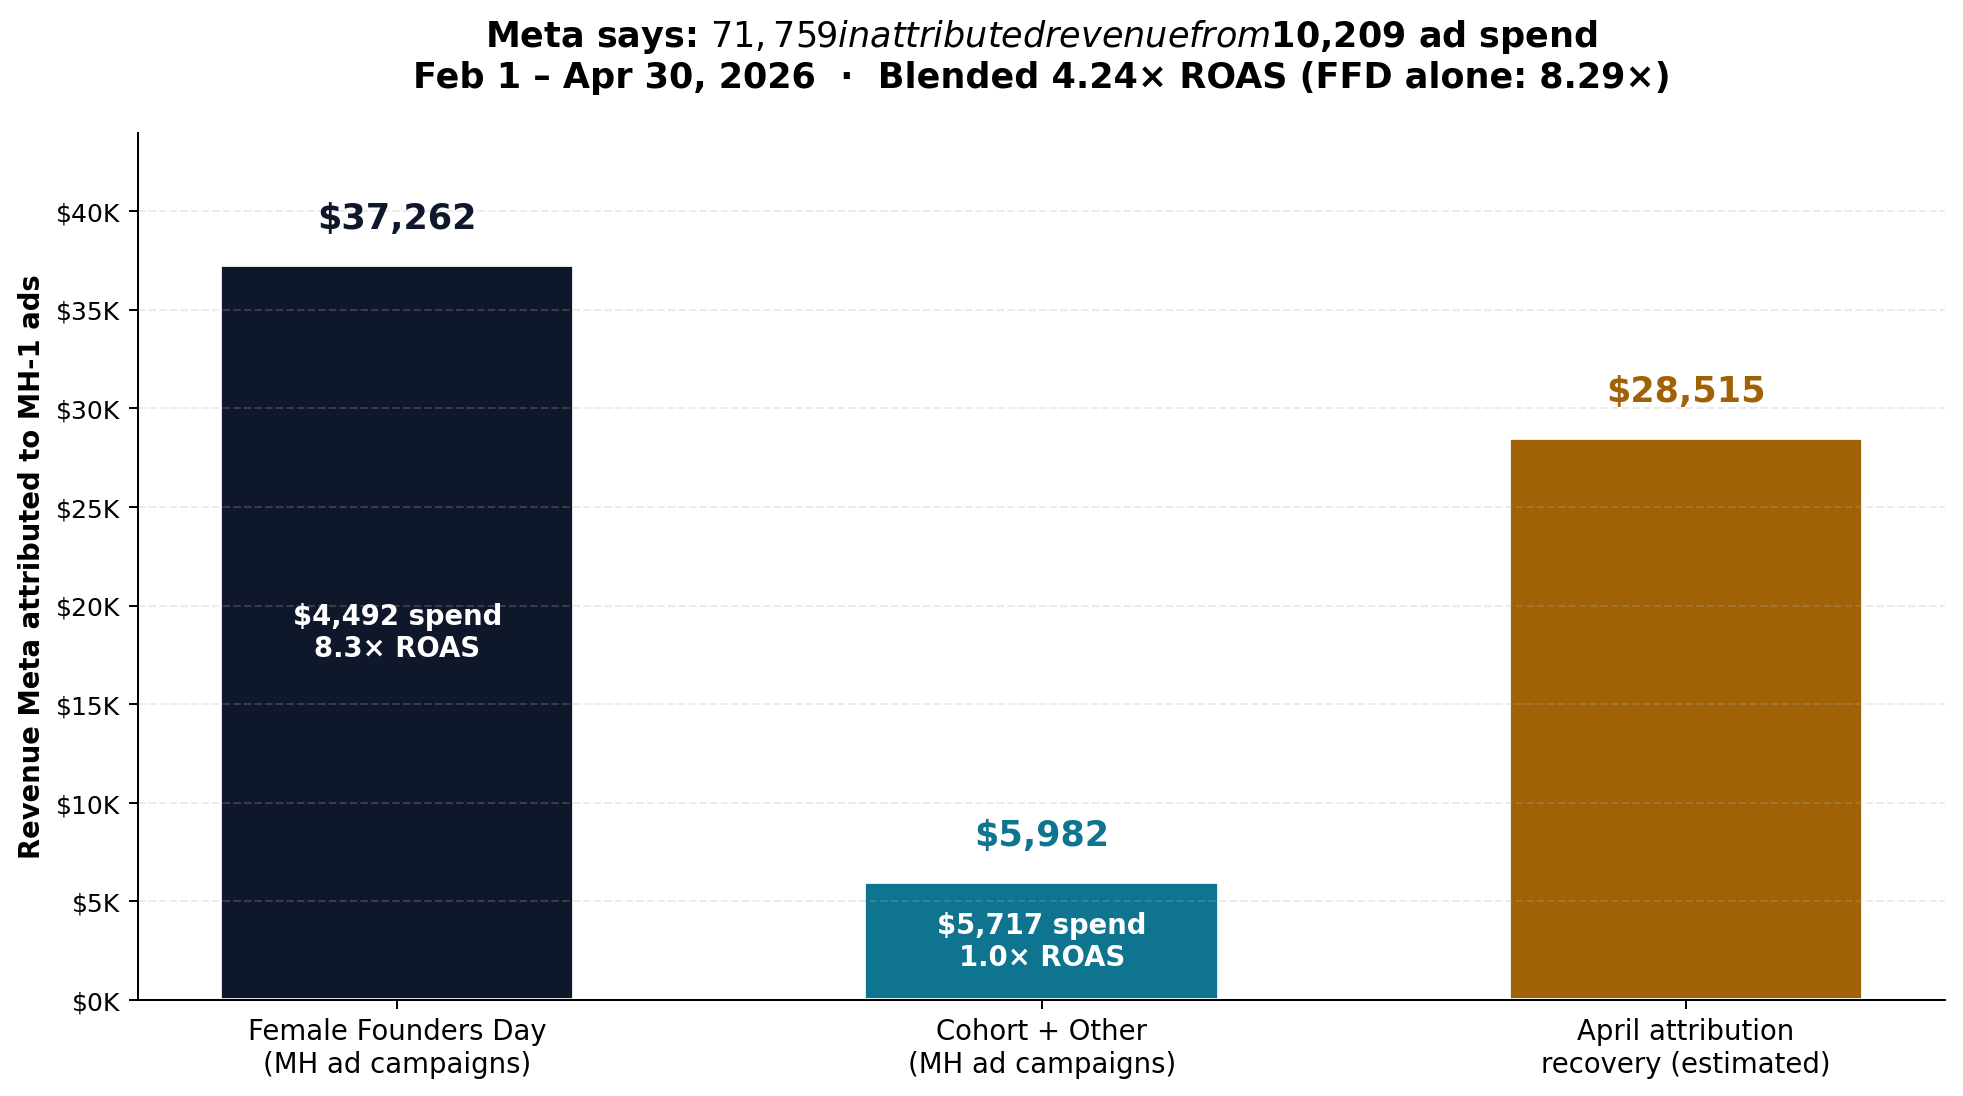
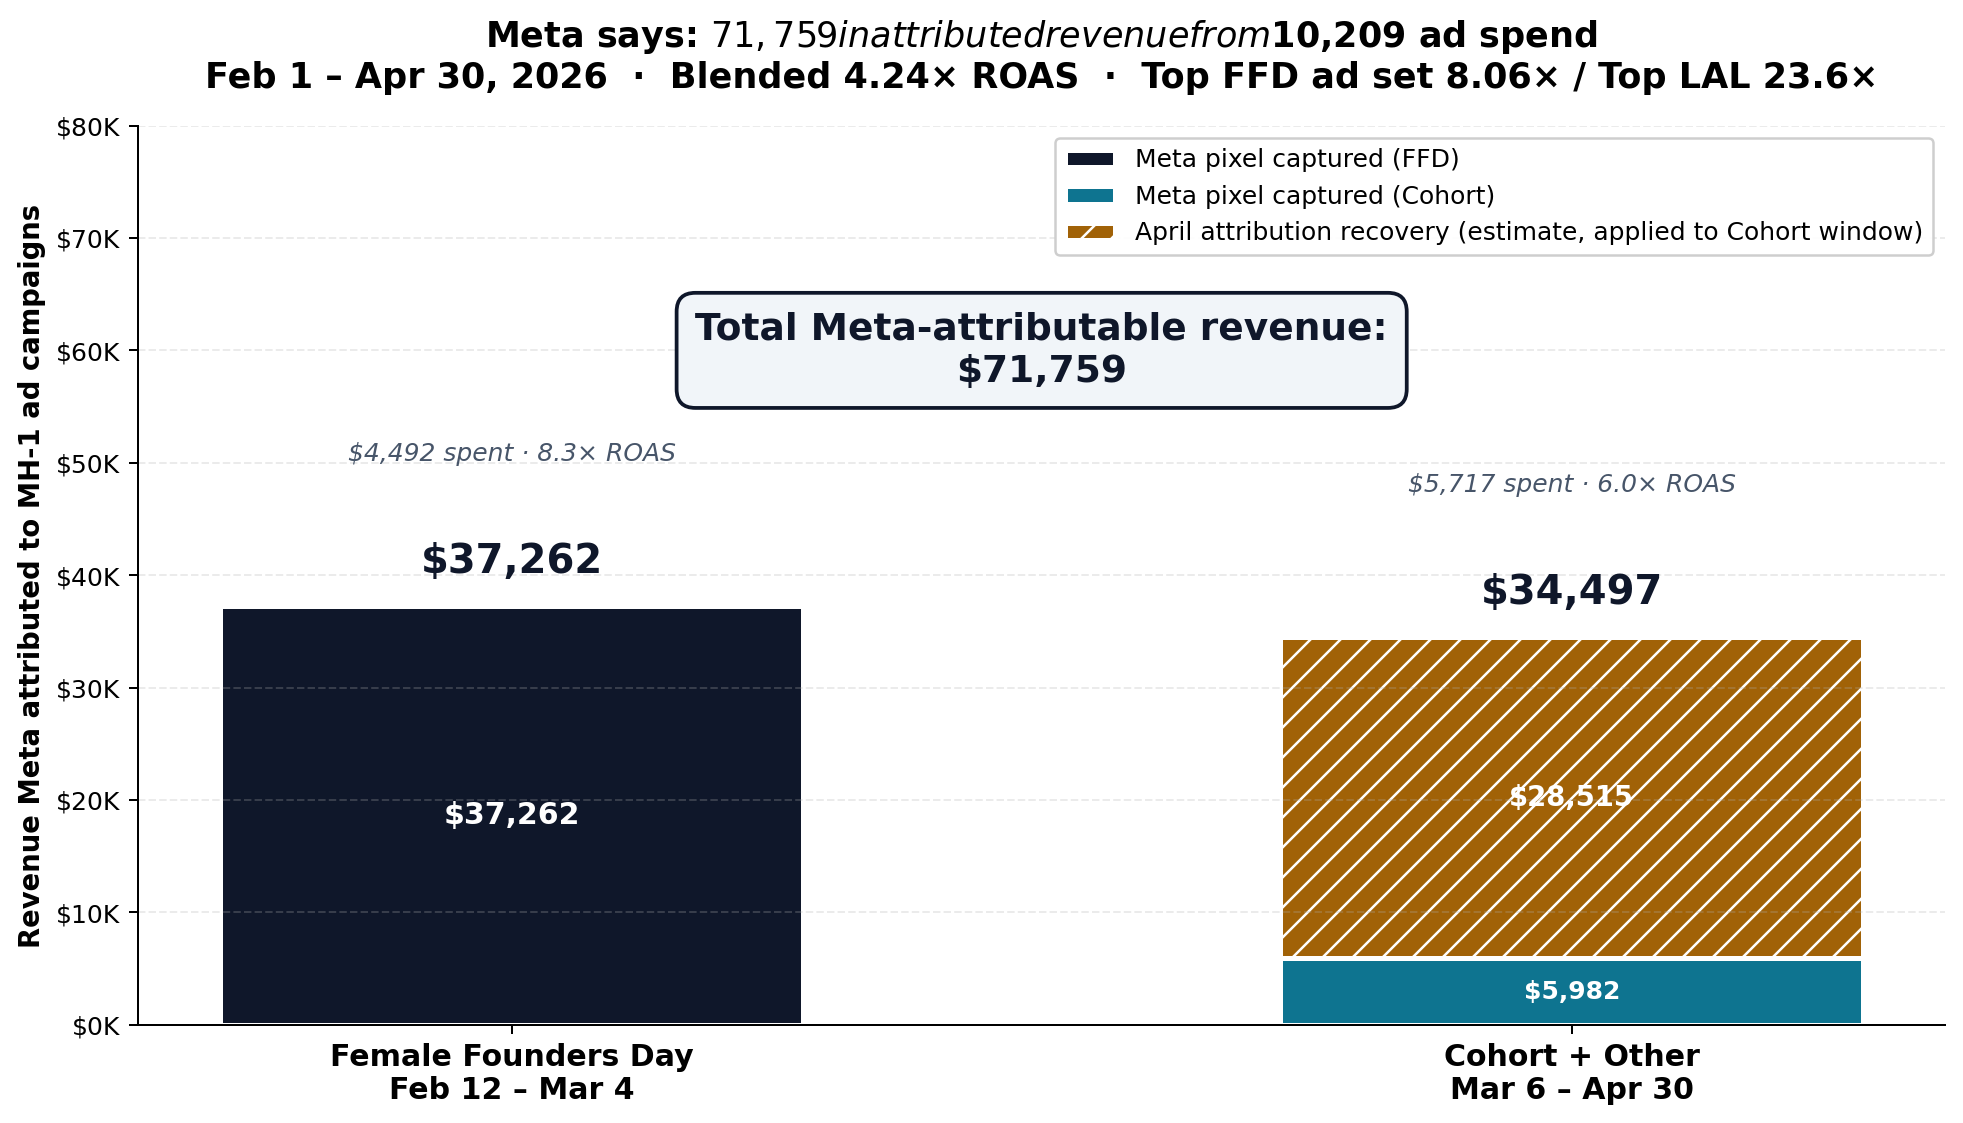
Slide 1 redone: stacked bars w/ FFD vs Cohort+April recovery; clean cut-paste content

diff --git a/slides/deck-content.md b/slides/deck-content.md
@@ -1,111 +1,112 @@
-# 4-Slide Deck — Content (Copy/Paste Ready)
+# 4-Slide Deck — Cut-and-Paste Content
 
-All numbers verified directly from BigQuery / source-of-truth platforms. All charts saved as PNGs in `/research/slides/`.
+Plain text. No markdown formatting that breaks in slide editors. Charts saved as PNGs in `/research/slides/`.
 
----
+═══════════════════════════════════════════════════════════════
 
-## SLIDE 1 — Meta says marketing made you money
+## SLIDE 1 — META SAYS MARKETING MADE YOU MONEY
 
-**Headline:**
-> Meta drove **$71,759 in attributed revenue** from $10,209 in ad spend (Feb 1 – Apr 30, 2026) — a blended **4.24× ROAS**.
+HEADLINE:
+Meta drove $71,759 in attributed revenue from $10,209 in ad spend (Feb 1 – Apr 30, 2026). Blended 4.24× ROAS.
 
-**Bullet:**
-- **Female Founders Day ad campaigns** alone delivered **$37,262 in Meta-attributed purchases** at **8.29× ROAS** on $4,492 spend (top retargeting set 8.06×, top LAL prospecting set 23.6×)
-- **Cohort + other paid lanes** delivered $5,982 in directly captured revenue (plus 165 cohort applications attributed via CAPI server-side)
-- **April attribution-recovery estimate: +$28,515** (the period before Jeff's CAPI rebuild went live April 28; methodology applied prior-month blended ROAS to April spend)
+BULLETS:
+• Female Founders Day ad campaigns delivered $37,262 at 8.29× ROAS on $4,492 spend (top retargeting set 8.06×, top LAL 23.6×)
+• Cohort + retargeting delivered $5,982 in directly captured purchases plus $28,515 in attribution recovery for the April period when Meta's pixel was partial-coverage = $34,497 total cohort-attributable
+• 309 cohort registration events and 165 unique applications attributed to Meta via Typeform CAPI server-side tracking
+• Total spend: $10,209 across 15 ad sets, all built and run by Cameron Rzonca (MH-1)
 
-**Chart:** `slide1-meta.png`
+CHART: slide1-meta.png
 
-**Source of truth:** Meta Ads Manager + BigQuery `facebook_ads.basic_ad_action_values` (action_type = 'purchase'); 4 different action-type aliases all sum to identical totals.
+SOURCE: Meta Ads Manager + BigQuery (facebook_ads.basic_ad_action_values, action_type='purchase'). Verified across 4 different action-type aliases.
 
----
+═══════════════════════════════════════════════════════════════
 
-## SLIDE 2 — HubSpot says marketing made you money
+## SLIDE 2 — HUBSPOT SAYS MARKETING MADE YOU MONEY
 
-**Headline:**
-> Per HubSpot's own attribution: deal revenue is **+22% YoY** (Feb–Apr 2025 → 2026), and the **average deal value is up 75%** — MH-1 is bringing in higher-value subscribers.
+HEADLINE:
+HubSpot deal revenue is up +22% YoY (Feb–Apr 2025 vs 2026). Average deal value is up +75% YoY — MH-1 is bringing in higher-value subscribers.
 
-**Bullet:**
-- **Total HubSpot closed-won deals Feb–Apr 2026: $195,980** (up from $161,046 in 2025) — **+22% YoY**
-- **Average deal value: $929** (up from $531 in 2025) — **+75% YoY**, driven by Cabinette + Lifetime cohort offerings MH-1 promoted
-- **137 of 211 closed-won deals (65%) had a marketing channel MH-1 operates as a first or last touch**, totaling **$104,287** in deal revenue
-- Plus **$28,934 from 54 deals** influenced by Mike's Consumer '26 sequence automation (HubSpot Sequences UI)
+BULLETS:
+• 2025 Feb–Apr: $161,046 in HubSpot closed-won deals (303 deals)
+• 2026 Feb–Apr: $195,980 in HubSpot closed-won deals (211 deals)
+• Average deal value: $531 (2025) → $929 (2026) — +75% YoY, driven by Cabinette + Lifetime cohort offerings MH-1 promoted
+• 137 of 211 closed-won deals (65%) had a marketing channel MH-1 operates as a first or last touch — $104,287 in deal revenue
+• Plus 54 deals worth $28,934 influenced by Mike's Consumer '26 sequence automation (HubSpot Sequences UI)
 
-**Chart:** `slide2-hubspot.png`
+CHART: slide2-hubspot.png
 
-**Source of truth:** BigQuery `female_founder_collective_hubspot.deal` filtered by `property_hs_is_closed_won = TRUE`; first/last touch attribution from HubSpot's own `property_hs_analytics_source` and `property_hs_analytics_latest_source` columns.
+SOURCE: BigQuery female_founder_collective_hubspot.deal, filtered by property_hs_is_closed_won=TRUE. First/last touch from HubSpot's own analytics_source columns.
 
----
+═══════════════════════════════════════════════════════════════
 
-## SLIDE 3 — Chargebee says revenue is up since we started
+## SLIDE 3 — CHARGEBEE SAYS REVENUE IS UP SINCE WE STARTED
 
-**Headline:**
-> FFC's monthly net cash collected is **up 57.9% YoY** Feb–Apr (vs. same window 2025). **April 2026 alone: $130,653 — literally 2× April 2025.**
+HEADLINE:
+Net cash collected is up +57.9% YoY Feb–Apr (vs same window 2025). April 2026 alone collected $130,653 — literally 2× April 2025.
 
-**Bullet:**
-- **Feb–Apr 2025 (pre-MH):** $174,923 net cash collected
-- **Feb–Apr 2026 (MH-era):** $276,233 net cash collected — **+57.9% YoY**
-- **April 2026:** **$130,653** — **2.08× the trailing-12-month average** before MH started ($61,856), **2.57× the Q4 2025 monthly average** ($50,075), **7.1× the Nov 2025 low** ($18,100)
-- **231 new subscriptions** added Feb–Apr 2026, including a record **124 new subs in April alone** (more than Feb + March combined)
-- **New MRR added Feb–Apr 2026: $30,224** — that's **7.4× the same period in 2025** ($4,081)
-- **Cohort comparison:** Q1 2025 cohort = $25,000 vs Q2 2026 cohort = $60,343 verified — **+141% (2.41×)**
+BULLETS:
+• Feb–Apr 2025 (pre-MH-1): $174,923 net cash
+• Feb–Apr 2026 (MH-1 era): $276,233 net cash — +57.9% YoY
+• April 2026: $130,653 — 2.08× the trailing 12-month average ($61,856), 2.57× the Q4 2025 monthly average ($50,075), 7.1× the Nov 2025 low ($18,100)
+• 231 new subscriptions added Feb–Apr 2026, including a record 124 in April alone (more than Feb + March combined)
+• New MRR added Feb–Apr 2026: $30,224 — that's 7.4× the same period in 2025 ($4,081)
+• Q1 2025 cohort = $25,000 vs Q2 2026 cohort = $60,343 verified — +141% / 2.41× lift
 
-**Chart:** `slide3-chargebee.png`
+CHART: slide3-chargebee.png
 
-**Source of truth:** BigQuery `chargebee.transaction` filtered to `type='payment' AND status='success'`, less successful refunds. Verified across 3 independent methods (transactions, invoice.amount_paid, transaction-invoice join) — all converge.
+SOURCE: BigQuery chargebee.transaction filtered to type='payment' AND status='success', net of refunds. Verified across 3 independent methods (transactions, invoice.amount_paid, transaction-invoice join) — all converge.
 
----
+═══════════════════════════════════════════════════════════════
 
-## SLIDE 4 — Look at this giant list of things we did for you
+## SLIDE 4 — LOOK AT THIS GIANT LIST OF THINGS WE DID FOR YOU
 
-**Headline:**
-> Beyond direct revenue, here's what's been built into FFC's program since February 1, 2026 — running for $20K/month.
+HEADLINE:
+Beyond direct revenue, here's what's been built into FFC's program since February 1, 2026 (running for $20K/month):
 
-**The big things (organized by impact):**
+PAID ACQUISITION (Cameron Rzonca):
+• Built and ran every Meta ad campaign — 15 ad sets across FFD, cohort, retargeting, prospecting (4.24× blended ROAS)
+• First paid LinkedIn lane in FFC's history (CTR 0.6%, above benchmark)
+• Server-side CAPI pipeline — Chargebee → Segment → Meta direct purchase events (live April 28)
+• Typeform CAPI server-side tracking — accurate cohort application attribution
 
-### Paid acquisition infrastructure (built by Cameron Rzonca)
-- **Every Meta ad campaign** in the window — 15 ad sets across FFD, cohort, retargeting, prospecting (4.24× blended ROAS)
-- **First paid LinkedIn lane** in FFC's history (CTR 0.6% — above LinkedIn benchmark of 0.2–0.3%)
-- **Server-side CAPI pipeline** — Chargebee → Segment → Meta direct purchase events (Jeff Raybould, live April 28)
-- **Typeform CAPI server-side tracking** — accurate cohort application attribution
+EMAIL + LIFECYCLE PROGRAM (Michael DiLillo):
+• 22 published marketing emails — 151,167 sends, 311 unique clickers
+• 23 new paying subscribers acquired through clicks on MH-built emails ($15,903 cash / $20,156 ARR)
+• 297 active workflows / 118 enabled in the lifecycle layer (newly unblocked April 29)
+• 133 automation campaigns running in workflow layer
+• Mike's Consumer '26 sequence automation: 54 deals worth $28,934
+• April 27 retention email reached 863 paying members ($538K ARR)
+• 48 broken workflows audited with $10K+ recoverable upside (Cancel Email Send 860 cancelling members, Expired Card recovery, Newsletter Sign Up 7,049 enrolled)
 
-### Email + lifecycle program (built by Michael DiLillo)
-- **22 published marketing emails** — 151,167 sends, 11,774 opens, 311 unique clickers
-- **23 new paying subscribers** acquired through clicks on MH-built emails ($15,903 cash to date / $20,156 ARR)
-- **297 active workflows / 118 enabled** in the lifecycle layer (newly unblocked April 29)
-- **133 automation campaigns** running in the workflow layer — onboarding, renewal nudges, re-engagement
-- **Mike's Consumer '26 sequence automation** influenced 54 deals worth $28,934 (HubSpot Sequences)
-- **April 27 retention email** reached 863 paying members representing $538K ARR
-- **48 broken workflows audited** with ~$10K+ recoverable upside — Cancel Email Send (860 cancelling members), Expired Card recovery, Newsletter Sign Up (7,049 enrolled)
+AI INSIGHTS (Lifecycle Dashboard, ffc-paid-social-hub.vercel.app):
+• Subject Line Analyzer — found 95% open lift from "Your" or first-name openers (36.94% vs 18.9%)
+• Section Heatmap — the "hotspot" analysis Ali asked for April 13
+• Creative Format Winner — AI scoring of formats
+• Topic Performance Clustering — found 5× engagement gap between lifecycle automation and broadcast acquisition
+• AI-driven Typeform Audit identified 50.6% / 58.8% drop-off screens (78% of cohort funnel loss)
+• Brand voice "voice print" for AI content generation
+• Tech stack recommendation built leveraging AI
 
-### AI-powered insights (Cameron's Lifecycle Dashboard, ffc-paid-social-hub.vercel.app)
-- **Subject Line Analyzer** — found 95% open-rate lift from "Your" or first-name openers (36.94% vs 18.9%)
-- **Section Heatmap** ("hotspot" analysis you asked for April 13)
-- **Creative Format Winner** — AI scoring of formats
-- **Topic Performance Clustering** — found 5× engagement gap between lifecycle automation and broadcast
-- **AI-driven Typeform Audit** — identified 50.6% / 58.8% drop-off screens (78% of cohort funnel loss)
-- **Brand voice "voice print"** for AI content generation
-- **Tech stack recommendation** built leveraging AI
+1:1 OUTBOUND (Lowella Buendia):
+• 46 sales calls + 224 SMS = 5 attributable paid sign-ups (verified Apr 30)
+• LinkedIn outreach: 83 invites, 12 accepted with first message
+• IG/social coverage when FFC team was out
 
-### 1:1 outbound (Lowella Buendia)
-- **46 sales calls + 224 SMS = 5 attributable paid sign-ups** (verified Apr 30)
-- **LinkedIn outreach: 83 invites, 12 accepted with first message**
-- IG/social coverage when FFC team was out
+STRATEGY + FOUNDATIONAL:
+• Email Industries deliverability audit — MH brought them in (February)
+• ICP survey design + launch
+• Brand audit + lifecycle architecture
+• Tech stack rebuild plan — Stripe / Chargebee / HubSpot, June 28 launch target
+• ManyChat audit + V5 plan
+• Founder's Operating Manual repositioning push
 
-### Strategy + foundational work
-- **Email Industries deliverability audit** — MH brought them in (February)
-- **ICP survey design + launch**
-- **Brand audit + lifecycle architecture**
-- **Tech stack rebuild plan** — Stripe / Chargebee / HubSpot, June 28 launch target
-- **ManyChat audit + V5 plan** (Amanda)
-- **Founder's Operating Manual repositioning push**
+REPORTING CADENCE (16 written reports / recaps to Ali in 12 weeks):
+• 8 weekly / bi-weekly recaps
+• FFD Wrap Report + ROAS update
+• FFC Audit Report (Email Industries)
+• Tech Stack recap + follow-up
+• Lifecycle dashboard shipped April 27–28
+• Comprehensive paid catch-up email April 29
 
-### Reporting cadence (16 written reports / recaps to Ali in 12 weeks)
-- 8 weekly / bi-weekly recaps
-- FFD Wrap Report + ROAS update (Cameron)
-- FFC Audit Report (Email Industries)
-- Tech Stack recap + follow-up
-- Lifecycle dashboard shipped April 27–28
-- Comprehensive paid catch-up email April 29 (Cameron)
-
-**Link out for the full detail:** https://newgamejay.github.io/ffc-recap-2026q1/value-recap.pdf
+LINK FOR FULL DETAIL:
+https://newgamejay.github.io/ffc-recap-2026q1/value-recap.pdf
